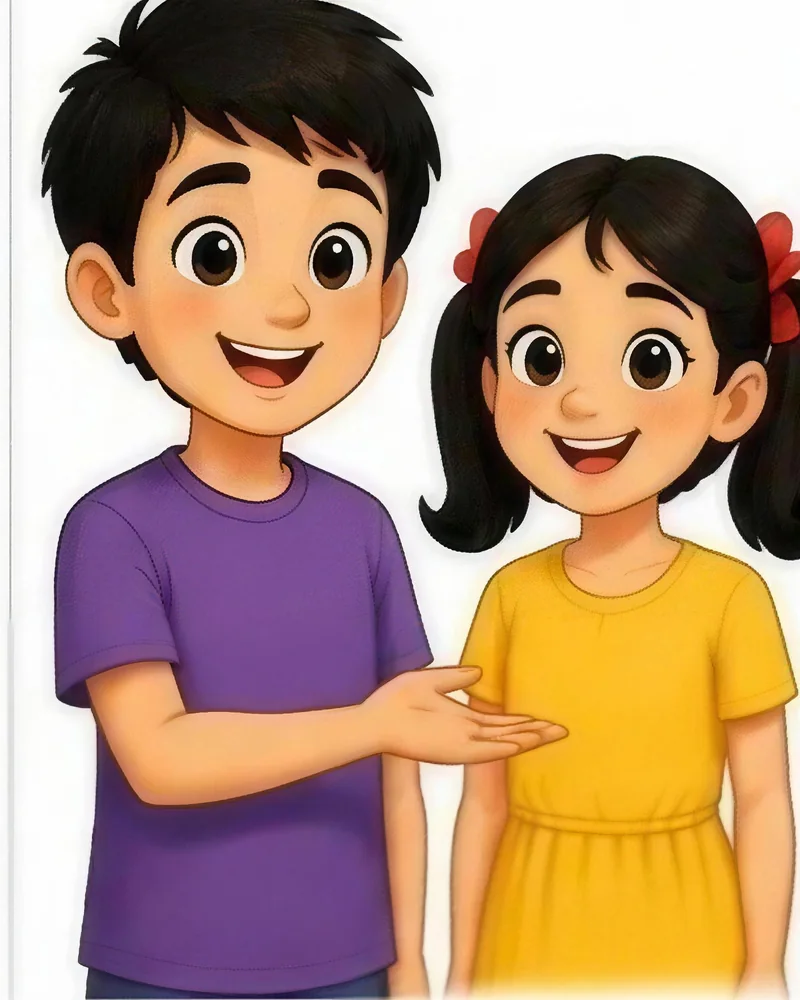
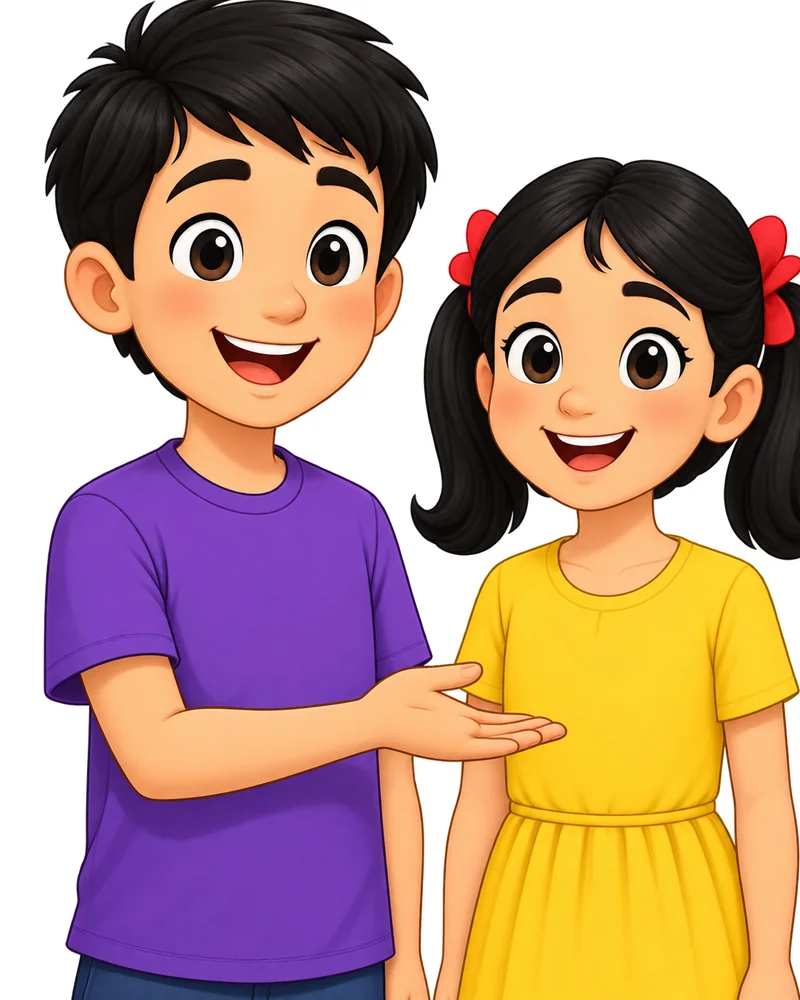
Китайский, урок 2: все 12 картинок перерисованы (q_name, her_name), кэш v5
Claude-Session: https://claude.ai/code/session_01CqsXcuoxjYuGtvmQYJ3k2f

diff --git a/chinese/how-are-you/index.html b/chinese/how-are-you/index.html
@@ -399,7 +399,7 @@ function play(id,onend){ if(current){current.pause();current.currentTime=0;} con
 /* карточки */
 function cardHTML(w,i,withText=true){
   return `<button class="card" data-id="${w.id}" style="--i:${i}" aria-label="${w.ru}">${SPK}
-    <img src="img/${w.id}.webp?v=3" alt="" loading="lazy">
+    <img src="img/${w.id}.webp?v=5" alt="" loading="lazy">
     ${withText?`<span class="zh" lang="zh">${w.zh}</span><span class="py">${w.py}</span><span class="ru">${w.ru}</span>`:`<span class="cap"><span class="zh" lang="zh">${w.zh}</span><span class="py big">${w.py}</span><span class="ru">${w.ru}</span></span>`}
   </button>`;
 }
@@ -435,7 +435,7 @@ const lines=SONG.map(k=>EXTRA[k]||byId[k]); let lineRow=[];
   window.ROWS=rows; lineRow=new Array(lines.length); rows.forEach((r,k)=>r.idx.forEach(i=>lineRow[i]=k));
   lyricsEl.innerHTML=rows.map((r,k)=>{const w=r.w; const pic=(w.id==='song_hello'?'q_howareyou':w.id==='song_thanks'?'happy':w.id);
     const dots=r.idx.length>1?`<span class="rep" aria-label="${r.idx.length} раза">${r.idx.map(()=>'<i></i>').join('')}</span>`:'';
-    return `<div class="line" data-k="${k}"><img src="img/${pic}.webp?v=3" alt=""><div><div class="zh" lang="zh">${w.zh}${dots}</div><div class="py">${w.py}</div><div class="ru">${w.ru}</div></div></div>`;}).join('');
+    return `<div class="line" data-k="${k}"><img src="img/${pic}.webp?v=5" alt=""><div><div class="zh" lang="zh">${w.zh}${dots}</div><div class="py">${w.py}</div><div class="ru">${w.ru}</div></div></div>`;}).join('');
 })();
 const playBtn=document.getElementById('playSong'), stopBtn=document.getElementById('stopSong'), tempo=document.getElementById('tempo');
 let singing=false, songAudio=null, songTimes=null;

diff --git a/chinese/whats-your-name/index.html b/chinese/whats-your-name/index.html
@@ -398,7 +398,7 @@ function play(id,onend){ if(current){current.pause();current.currentTime=0;} con
 /* карточки */
 function cardHTML(w,i,withText=true){
   return `<button class="card" data-id="${w.id}" style="--i:${i}" aria-label="${w.ru}">${SPK}
-    <img src="img/${w.id}.webp?v=3" alt="" loading="lazy">
+    <img src="img/${w.id}.webp?v=5" alt="" loading="lazy">
     ${withText?`<span class="zh" lang="zh">${w.zh}</span><span class="py">${w.py}</span><span class="ru">${w.ru}</span>`:`<span class="cap"><span class="zh" lang="zh">${w.zh}</span><span class="py big">${w.py}</span><span class="ru">${w.ru}</span></span>`}
   </button>`;
 }
@@ -434,7 +434,7 @@ const lines=SONG.map(k=>EXTRA[k]||byId[k]); let lineRow=[];
   window.ROWS=rows; lineRow=new Array(lines.length); rows.forEach((r,k)=>r.idx.forEach(i=>lineRow[i]=k));
   lyricsEl.innerHTML=rows.map((r,k)=>{const w=r.w; const pic=(w.id==='song_me'?'my_name':w.id);
     const dots=r.idx.length>1?`<span class="rep" aria-label="${r.idx.length} раза">${r.idx.map(()=>'<i></i>').join('')}</span>`:'';
-    return `<div class="line" data-k="${k}"><img src="img/${pic}.webp?v=3" alt=""><div><div class="zh" lang="zh">${w.zh}${dots}</div><div class="py">${w.py}</div><div class="ru">${w.ru}</div></div></div>`;}).join('');
+    return `<div class="line" data-k="${k}"><img src="img/${pic}.webp?v=5" alt=""><div><div class="zh" lang="zh">${w.zh}${dots}</div><div class="py">${w.py}</div><div class="ru">${w.ru}</div></div></div>`;}).join('');
 })();
 const playBtn=document.getElementById('playSong'), stopBtn=document.getElementById('stopSong'), tempo=document.getElementById('tempo');
 let singing=false, songAudio=null, songTimes=null;

diff --git a/chinese/slides/index.html b/chinese/slides/index.html
@@ -144,7 +144,7 @@ function render(){
     slide.innerHTML=`<div class="parts">${w.parts.map((p,k)=>`<button class="part" data-id="${p.id}" style="--k:${k}"><div class="zh" lang="zh">${p.zh}</div><div class="py">${p.py}</div><div class="ru">${p.ru}</div></button>`).join('')}</div>`;
     revealed=true;
   } else {
-    slide.innerHTML=`<div class="pic" id="pic"><img src="${BASE}img/hd/${w.id}.webp?v=4" alt="${w.ru}"></div>
+    slide.innerHTML=`<div class="pic" id="pic"><img src="${BASE}img/hd/${w.id}.webp?v=5" alt="${w.ru}"></div>
       <div class="txt"><div class="zh" lang="zh" style="--n:${[...w.zh].length}">${chars(w.zh)}</div><div class="py">${w.py}</div><div class="ru">${w.ru}</div></div>`;
     revealed=!guess; slide.classList.toggle('hide',guess);
   }
@@ -152,7 +152,7 @@ function render(){
   [...dots.children].forEach((d,k)=>d.classList.toggle('on',k===i));
   $('count').textContent=`${i+1} / ${W.length}`;
   if(revealed && !w.parts) setTimeout(()=>say(w.id,slide),380);
-  W.slice(i+1,i+3).forEach(n=>{ if(!n.parts){ new Image().src=`${BASE}img/hd/${n.id}.webp?v=4`; snd(n.id); } });
+  W.slice(i+1,i+3).forEach(n=>{ if(!n.parts){ new Image().src=`${BASE}img/hd/${n.id}.webp?v=5`; snd(n.id); } });
 }
 function reveal(){ revealed=true; slide.classList.remove('hide'); say(W[i].id,slide); }
 function go(d){ if(d>0 && !revealed){ reveal(); return; } const n=i+d; if(n<0||n>=W.length) return; dir=d; i=n; render(); }

diff --git a/chinese/finale/finale.js b/chinese/finale/finale.js
@@ -19,7 +19,7 @@
     <div class="controls"><button class="btn primary" id="finPlay"><svg viewBox="0 0 24 24"><path d="M8 5v14l11-7z"/></svg>Петь</button>
       <button class="btn" id="finStage" hidden><svg viewBox="0 0 24 24"><path d="M5 5h5V3H3v7h2V5zm14 0v5h2V3h-7v2h5zM5 19v-5H3v7h7v-2H5zm14 0h-5v2h7v-7h-2v5z"/></svg>На весь экран</button>
       <button class="btn" id="finStop" hidden><svg viewBox="0 0 24 24"><path d="M6 6h12v12H6z"/></svg>Стоп</button></div>
-    <div class="lyrics" id="finLyrics">${LINES.map((l,i)=>`<div class="line" data-i="${i}"><img src="../whats-your-name/img/wave.webp?v=3" alt=""><div><div class="zh" lang="zh">${l.zh}</div><div class="py">${l.py}</div><div class="ru">${l.ru}</div></div></div>`).join('')}</div>
+    <div class="lyrics" id="finLyrics">${LINES.map((l,i)=>`<div class="line" data-i="${i}"><img src="../whats-your-name/img/wave.webp?v=5" alt=""><div><div class="zh" lang="zh">${l.zh}</div><div class="py">${l.py}</div><div class="ru">${l.ru}</div></div></div>`).join('')}</div>
     <p class="sub" style="margin:0">Нажми «Петь» — строчки подсвечиваются под музыку.</p>
   </div></section>`;
   const lyr=document.getElementById('finLyrics'), playB=document.getElementById('finPlay'), stopB=document.getElementById('finStop');
